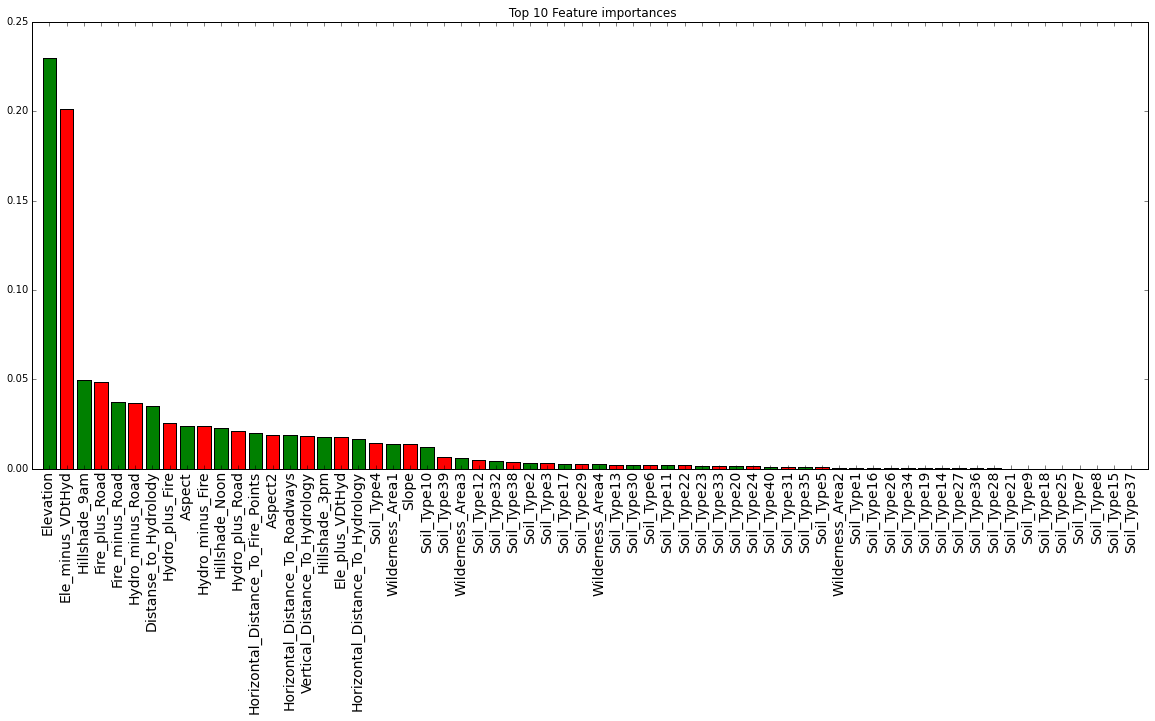
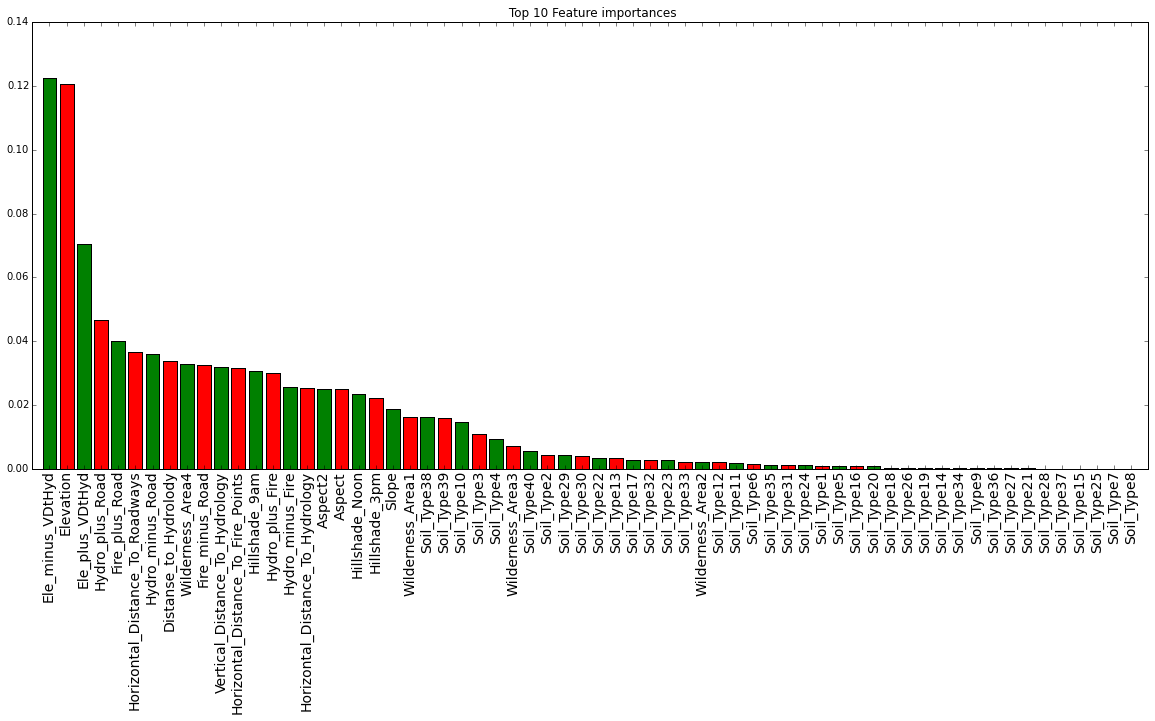
update

diff --git a/feature_selection.py b/feature_selection.py
@@ -10,13 +10,12 @@ from sklearn import cross_validation
 from feature_engineering import add_feature
 from explore_data import preprocess_data
 from matplotlib import pyplot as plt
-
 import numpy as np
 
 def split_data(data,cols):
-    X_train=data[cols]
-    y_train=data['Cover_Type']
-    return X_train,y_train
+    X=data[cols]
+    y=data['Cover_Type']
+    return X,y
     
 def create_clf():
     forest=ensemble.RandomForestClassifier()
@@ -34,13 +33,15 @@ def cv_score(clf,X_train,y_train):
     return score.mean()
 
                                 
-def select_feature(data,feature_cols):
+def select_feature(data,feature_cols,importances):
+    indices = np.argsort(importances)[::-1]    
     f_count=64
     f_start=np.int(np.sqrt(f_count))
     f_range=range(f_start,f_count)
     score=np.array(np.zeros(f_count-f_start))
     for i in f_range:
-        cols=feature_cols[:i]
+        cols=feature_cols[indices]
+        cols=cols[:i]
         X_train,y_train=split_data(data,cols)
         score[i-f_start]=cv_score(create_clf(),X_train,y_train)
     return pd.DataFrame(score,index=f_range)
@@ -53,24 +54,33 @@ def plot_importances(importances, col_array):
     print "\nMean Feature Importance %.6f" %np.mean(importances)    
 #Plot the feature importances of the forest
     plt.figure(figsize=(20,8))
-    plt.title(" Top 10 Feature importances")
+    plt.title("Feature importances")
     plt.bar(range(len(importances)), importances[indices],
             color="gr", align="center")
     plt.xticks(range(len(importances)), col_array[indices], fontsize=14, rotation=90)
     plt.xlim([-1, len(importances)])
     plt.show()
+    
+def get_features(X_train,y_train):
+    importances=feature_importances(X_train,y_train)
+    indices = np.argsort(importances)[::-1]   
+    cols=X_train.columns[indices]
+    return cols[:54]
 
 def main():
     train=preprocess_data('train.csv')
     add_feature(train)
     feature_cols= [col for col in train.columns if col  not in ['Cover_Type','Id']]
     X_train,y_train=split_data(train,feature_cols)
-    f=feature_importances(X_train,y_train)
-    plot_importances(f,X_train.columns)
-    #score=select_feature(train,f)
-    #plt.plot(score)
-    #plt.show()
+    importances=feature_importances(X_train,y_train)
+    plot_importances(importances,X_train.columns)
+    score=select_feature(train,X_train.columns,importances)
+    print score
+    plt.figure(figsize=(20,8))
+    plt.plot(score)
+    plt.xticks(range(len(score)),score.index)
+    plt.show()
 
 
-if __name__ == '__main__':
-    main()
+#if __name__ == '__main__':
+    #main()

diff --git a/parameter_tuning.py b/parameter_tuning.py
@@ -4,5 +4,49 @@ Created on Sun Mar 15 15:23:06 2015
 
 @author: Ying
 """
-#'n_estimators' : [50,100,200,400,500,1000],
-parameters = {'max_features': ['sqrt', 'log2', .01, .5, .90, None]}
+from sklearn.grid_search import GridSearchCV
+from sklearn import ensemble
+from feature_engineering import add_feature
+from explore_data import preprocess_data
+from feature_selection import get_features
+from feature_selection import split_data
+def get_clfs():
+    return {
+            'extra trees' : { 
+                'est' :ensemble.ExtraTreesClassifier(),
+                'grid' : {
+                    'n_estimators' : [100,500,1000],
+                    'max_features': ['sqrt', 'log2', .1, .3, None ],
+                }
+            },
+#0.810515873016
+#{'max_features': 0.1, 'n_estimators': 500}
+            'random forests' : { 
+                'est' :ensemble.RandomForestClassifier(),
+                'grid' : {
+                    'n_estimators' : [100,500,1000],
+                    'max_features': ['sqrt', 'log2', .1, .3, None ],
+                }
+            },
+        }
+
+#0.820899470899
+#{'max_features': 0.3, 'n_estimators': 1000}
+def grid_search(X_train,y,clfs):
+    for name, clf in clfs.iteritems(): 
+        clf = GridSearchCV(clfs[name]['est'], clfs[name]['grid'], n_jobs=16, verbose=0, cv=10)
+        clf.fit(X_train,y)
+        print clf.score
+        print clf.best_score_
+        print clf.best_params_
+
+def main():
+    train=preprocess_data('train.csv')
+    add_feature(train)
+    feature_cols= [col for col in train.columns if col  not in ['Cover_Type','Id']]
+    X_train,y_train=split_data(train,feature_cols)
+    feature_cols=get_features(X_train,y_train)
+    grid_search(X_train[feature_cols],y_train,get_clfs())
+
+if __name__ == '__main__':
+    main()

diff --git a/model_selection.py b/model_selection.py
@@ -13,6 +13,7 @@ from feature_selection import cv_score
 from feature_selection import split_data
 import pandas as pd
 from matplotlib import pyplot as plt
+from feature_selection import get_features
 
 def create_clf():
     models=[]
@@ -29,17 +30,19 @@ def clf_score(models,X_train,y_train):
     index=[]
     score=[]
     for clf in models:
-        index.append(clf[0],)
+        index.append(clf[0])
         score.append(cv_score(clf[1],X_train,y_train))
     return pd.DataFrame(score,index=index)
 def main():
     train=preprocess_data('train.csv')
     add_feature(train)
     feature_cols= [col for col in train.columns if col  not in ['Cover_Type','Id']]
-    X_train,y_train=split_data(train,feature_cols[:56])
-    clf_scores=clf_score(create_clf(),X_train,y_train)
+    X_train,y_train=split_data(train,feature_cols)
+    cols=get_features(X_train,y_train)
+    clf_scores=clf_score(create_clf(),X_train[cols],y_train)
     print clf_scores
     plt.plot(clf_scores)
+    plt.xticks(range(len(clf_scores)), clf_scores.index, fontsize=14, rotation=90)
     plt.show()
 
 if __name__ == '__main__':
